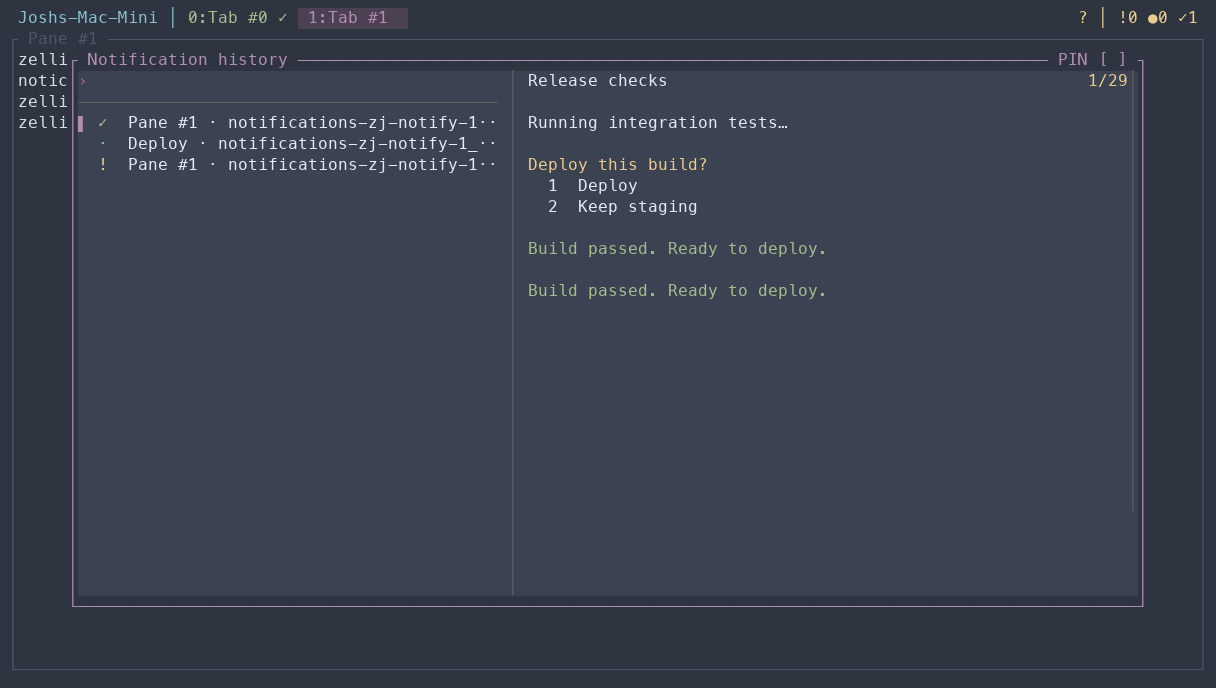
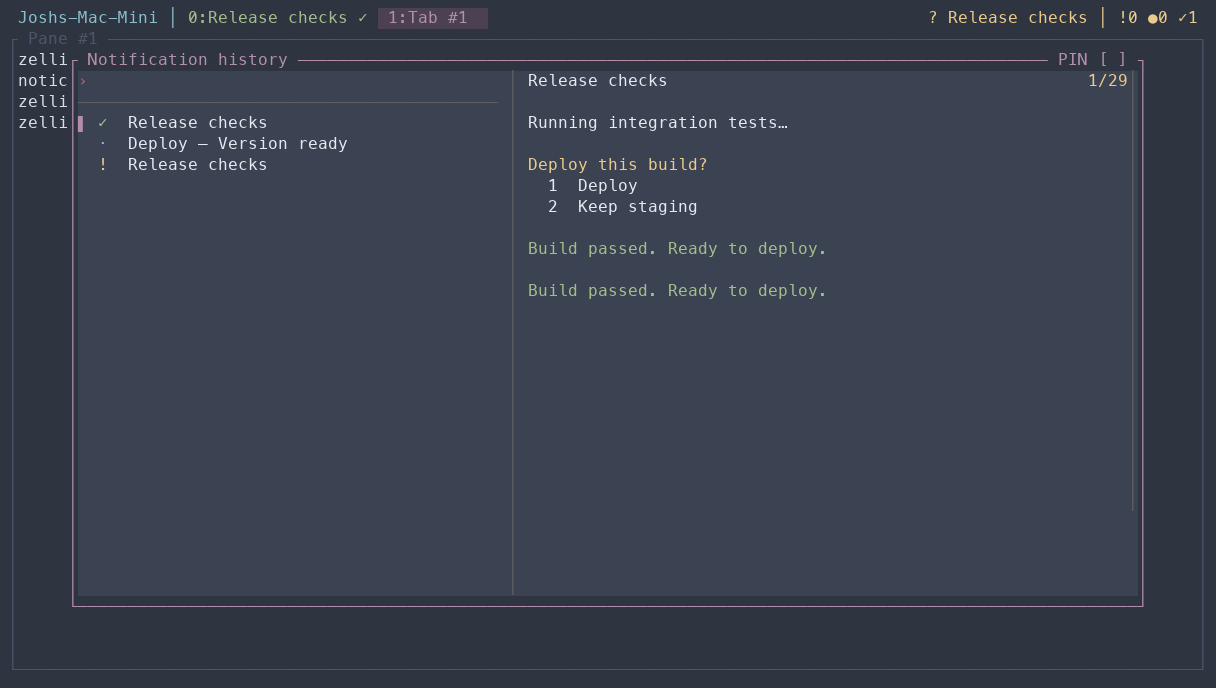
fix(zellij): hide internal notification labels
Detected-By: user

Changed region(s): [[0.0938, 0.1526, 0.375, 0.2442], [0.1562, 0.0, 0.4062, 0.061], [0.7812, 0.0, 0.9062, 0.0305]]

diff --git a/scripts/test-zellij-notifications-ui.py b/scripts/test-zellij-notifications-ui.py
@@ -51,7 +51,7 @@ Path(sys.argv[1]).write_text(str(os.getpid()))
 def report(value):
     print("\x1b]7501;state=" + value + ":app=fixture\x07", end="", flush=True)
 report("working")
-print("\x1b[2J\x1b[HRelease checks\n\nRunning integration tests…", flush=True)
+print("\x1b]2;Release checks\x07\x1b[2J\x1b[HRelease checks\n\nRunning integration tests…", flush=True)
 for line in sys.stdin:
     value = line.strip()
     report(value)
@@ -138,6 +138,13 @@ for line in sys.stdin:
             client.prefix(b"B")
             client.until("history opens through its real key", lambda:
                          "Notification history" in view() and "Release checks" in view())
+            picker = next(p for p in client.terminals() if p["is_floating"])
+            picker_screen = client.action("dump-screen", "--pane-id", f"terminal_{picker['id']}")
+            for row in history():
+                assert row["id"] not in picker_screen, "Internal notification ID is visible"
+                assert row["session"] not in picker_screen, "Internal session name is visible"
+                assert row["pane_id"] not in picker_screen, "Internal pane ID is visible"
+            assert "Pane #" not in picker_screen, "Generated pane label is visible"
             capture("history")
             glyphs = [(cell.data, cell.fg) for y in range(3, screen.lines)
                       for cell in screen.buffer[y].values()]
@@ -148,7 +155,7 @@ for line in sys.stdin:
             client.send(b"Version ready")
             client.until("history search finds a script notice", lambda:
                          "Version ready" in view() and "zellij-ready>" in view())
-            client.send(b"\x15Pane")
+            client.send(b"\x15Release")
             client.until("source title is searchable", lambda:
                          "Release checks" in view() and "Keep staging" in view())
             client.send(b"\r")

diff --git a/scripts/test-zellij-notifications.py b/scripts/test-zellij-notifications.py
@@ -107,6 +107,21 @@ class History(unittest.TestCase):
         self.assertIn("11-07 09:30", mixed_days)
         self.assertIn("11-08 11:45", mixed_days)
 
+    def test_picker_hides_internal_identifiers_and_generated_labels(self):
+        rows = [event(1, title="Pane #23", session="notifications-zj-opaque-session"),
+                event(2, title="Build checks", session="notifications-zj-opaque-session")]
+        with patch.object(notify, "read_history", return_value=rows):
+            with patch.object(notify.subprocess, "run", return_value=
+                              subprocess.CompletedProcess([], 130, "", "")) as picker:
+                notify.history()
+        choices = picker.call_args.kwargs["input"].splitlines()
+        labels = [choice.split("\t", 1)[1] for choice in choices]
+        self.assertIn("Build checks", "\n".join(labels))
+        self.assertIn("Needs a decision", "\n".join(labels))
+        self.assertNotIn("Pane #23", "\n".join(labels))
+        self.assertNotIn("notifications-zj-opaque-session", "\n".join(labels))
+        self.assertIn("--with-nth=2..", picker.call_args.args[0])
+
     def test_corrupt_history_is_reported_and_preserved(self):
         self.run_tool("record", json.dumps([event(1)]))
         path = Path(self.work.name) / "dotfiles/zellij/notifications.json"

diff --git a/docs/zellij.md b/docs/zellij.md
@@ -222,7 +222,7 @@ On first use, the bar asks to read application state, run its local host-metadat
 
 The top bar distinguishes **`!` requires attention**, **`●` working**, and **`✓` completed**. Successful completions no longer inflate the urgent count. New background failures, questions, and completions briefly replace the clock with a colored notice while keeping those counts and room for tab navigation visible. Notices never open a pane, take focus, or consume application keys. A burst replaces the current notice; a success cannot displace an unexpired failure or question. Attaching to a session does not replay old items as notices, and progress updates stay quiet. Ordinary output is ignored unless its pane is watched; successful shell commands must run for thirty seconds before becoming attention.
 
-`Ctrl-f B` opens notification history, newest first. Type to search titles, messages, or session names. Dates appear only when the entries span different days; identical times are omitted too. The preview shows the source pane's current contents with its terminal colors; in narrow windows it moves below the list. `Ctrl-/` hides or restores the preview. Enter visits the original pane only while its server and pane process identities still match. Closed or replaced sources show “Pane unavailable” rather than another pane's contents. Esc closes history. History retains at most 500 events in a private JSON file under `${XDG_STATE_HOME:-$HOME/.local/state}/dotfiles/zellij`, with bounded text, atomic writes, and duplicate suppression across tabs/clients. Recording errors are visible; existing history is not silently overwritten if unreadable.
+`Ctrl-f B` opens notification history, newest first. Type to search titles or messages. Internal identifiers, session names, and generated pane labels are hidden. Dates appear only when the entries span different days; identical times are omitted too. The preview shows the source pane's current contents with its terminal colors; in narrow windows it moves below the list. `Ctrl-/` hides or restores the preview. Enter visits the original pane only while its server and pane process identities still match. Closed or replaced sources show “Pane unavailable” rather than another pane's contents. Esc closes history. History retains at most 500 events in a private JSON file under `${XDG_STATE_HOME:-$HOME/.local/state}/dotfiles/zellij`, with bounded text, atomic writes, and duplicate suppression across tabs/clients. Recording errors are visible; existing history is not silently overwritten if unreadable.
 
 ![Notification history with source pane contents captured by the macOS terminal check](images/zellij-notification-history.png)
 
